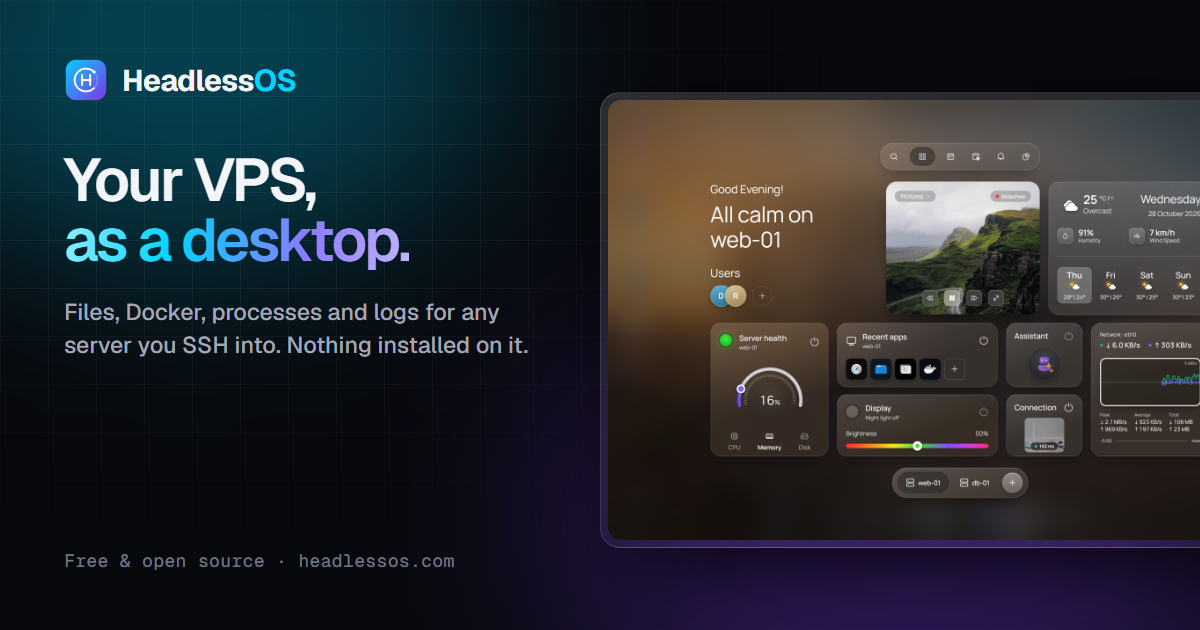
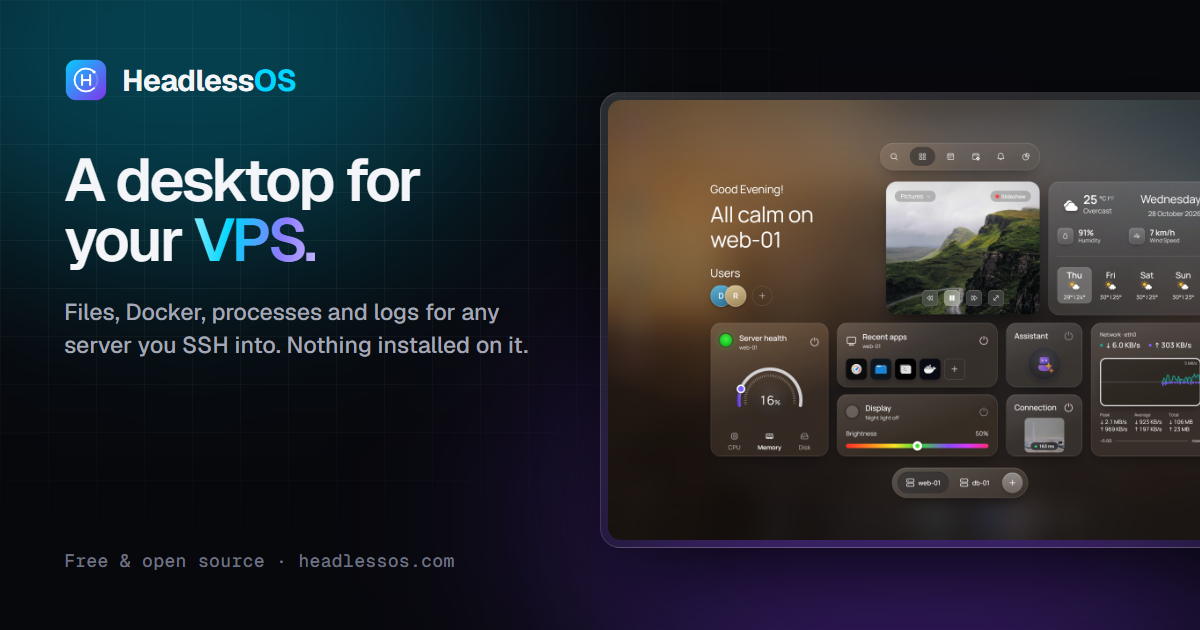
feat: give the changing headline word its own line
"A desktop for your" stays put; the last line rolls through VPS / cloud server /
home lab / Raspberry Pi. Each word is centred on its own in a fixed-height line,
so nothing else moves when it changes (measured: headline height and the
subtitle's position stay constant through every change). The punctuation belongs
to each word. OG image and notes match the new headline.

Changed region(s): [[0.0308, 0.2413, 0.37, 0.4222]]

diff --git a/AGENTS.md b/AGENTS.md
@@ -58,7 +58,7 @@ headlessOS-Web/
 │   │   └── screens/              # App screenshots (WebP, 3200×2000) + the video poster
 │   ├── components/               # Astro components (marketing sections)
 │   │   ├── Header.astro, Footer.astro, Logo.astro
-│   │   ├── Hero.astro            # Rotating headline ("Your VPS / cloud server / …") + the demo video
+│   │   ├── Hero.astro            # "A desktop for your" + a rolling last line (VPS / cloud server / …) + the demo video
 │   │   ├── BeforeAfter.astro     # The commands you'd type vs the Dashboard
 │   │   ├── AppsShowcase.astro    # Tabbed screenshot gallery (auto-advances)
 │   │   ├── HowItWorks.astro      # Runs on your computer, not the server (and isn't an OS): computer → SSH → server
